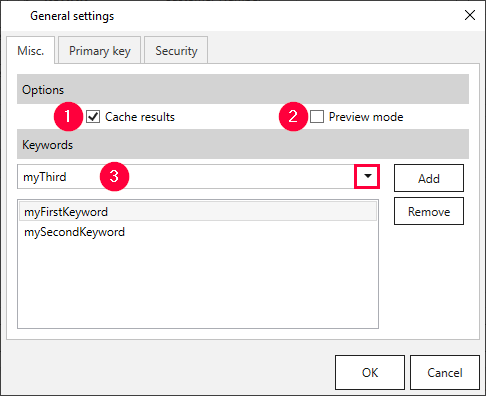
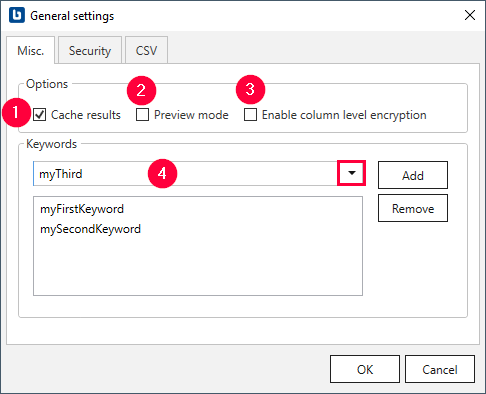
BC Column Name Style General Settings
BC Column Name Style General Settings

diff --git a/content/_en/board-connector/getting-started/general-settings.md b/content/_en/board-connector/getting-started/general-settings.md
@@ -8,7 +8,6 @@ parent: getting-started
 permalink: /:collection/:path
 weight: 5
 lang: en_GB
-old_url: /BOARD-Connector-EN/default.aspx?pageid=general-settings
 progressstate: 5
 ---	
 General Settings are independent of the extraction type.
@@ -23,7 +22,7 @@ Example:
 The window "General Settings" opens.
 
 
-### Misc. tab
+### Misc. Tab
 The miscellaneous tab consists of two subsections:
 - Options
 - Keywords
@@ -40,23 +39,30 @@ This increases the performance and limits the impact on the SAP system. If this 
 **Preview Mode** (2)
 If preview mode is activated, only a small portion of data is extracted from SAP or, if extraction is not possible, sample data is generated instead.
 
+**Enable column level encryption** (3)
+
+
 #### Keywords
 One or more keywords (Tags) can be set to an extraction. 
-Keywords can be entered directly in the keyword field (3).
+Keywords can be entered directly in the keyword field (4).
 Within the Designer you can use these keywords to filter  extractions. 
 
 {:.box-tip}
 **Tip:** to display filter options, navigate to **[Extractions] > [Filter]** or press **[CTRL]+[F]**.
  
-### Primary Key tab
-Table extractions inherit the primary keys from SAP. Other objects such as SAP Query, BW Cube etc. require manual setting of the primary keys.  
-![General-Settings-Primary-Key](/img/content/XU_table_Primary_key.png){:class="img-responsive"}
-
-Depicted example demonstrates the SAP object *MAKT* with it's primary key inherited from SAP in the general settings of the Designer. In this example the primary key consists of *MANDT*, *MATNR*, *SPRAS*. The demonstrated primary key is also taken over BOARD. 
-
-{:.box-note}
-**Note:** A defined primary key field in a table is a prerequisite for merging data. 
-
-
 ### Security Tab
 The security tab is described in the section [access management](https://help.theobald-software.com/en/board-connector/security/access-management).
+
+### CSV Tab
+
+#### Column Name Style
+
+Defines the style of the column name. Following options are available: 
+
+- **Code**: The SAP technical column name is used as column name in the destination e.g., MAKTX.<br>
+- **PrefixedCode**: The SAP technical column name is prefixed by SAP object name and the tilde character e.g., MAKT~MAKTX
+- **CodeAndText**: The SAP technical column name and the SAP description separated by an underscore are used as column name in the destination e.g., MAKTX_Material Description (Short Text).<br>
+- **TextAndCode**: The SAP description and the SAP technical column name description separated by an underscore are used as column name in the destination e.g., Material Description (Short Text)_MAKTX.
+
+#### Date conversion
+{% include _content/en/xu-specific/xu-destinations/general/date-conversion.md %}
